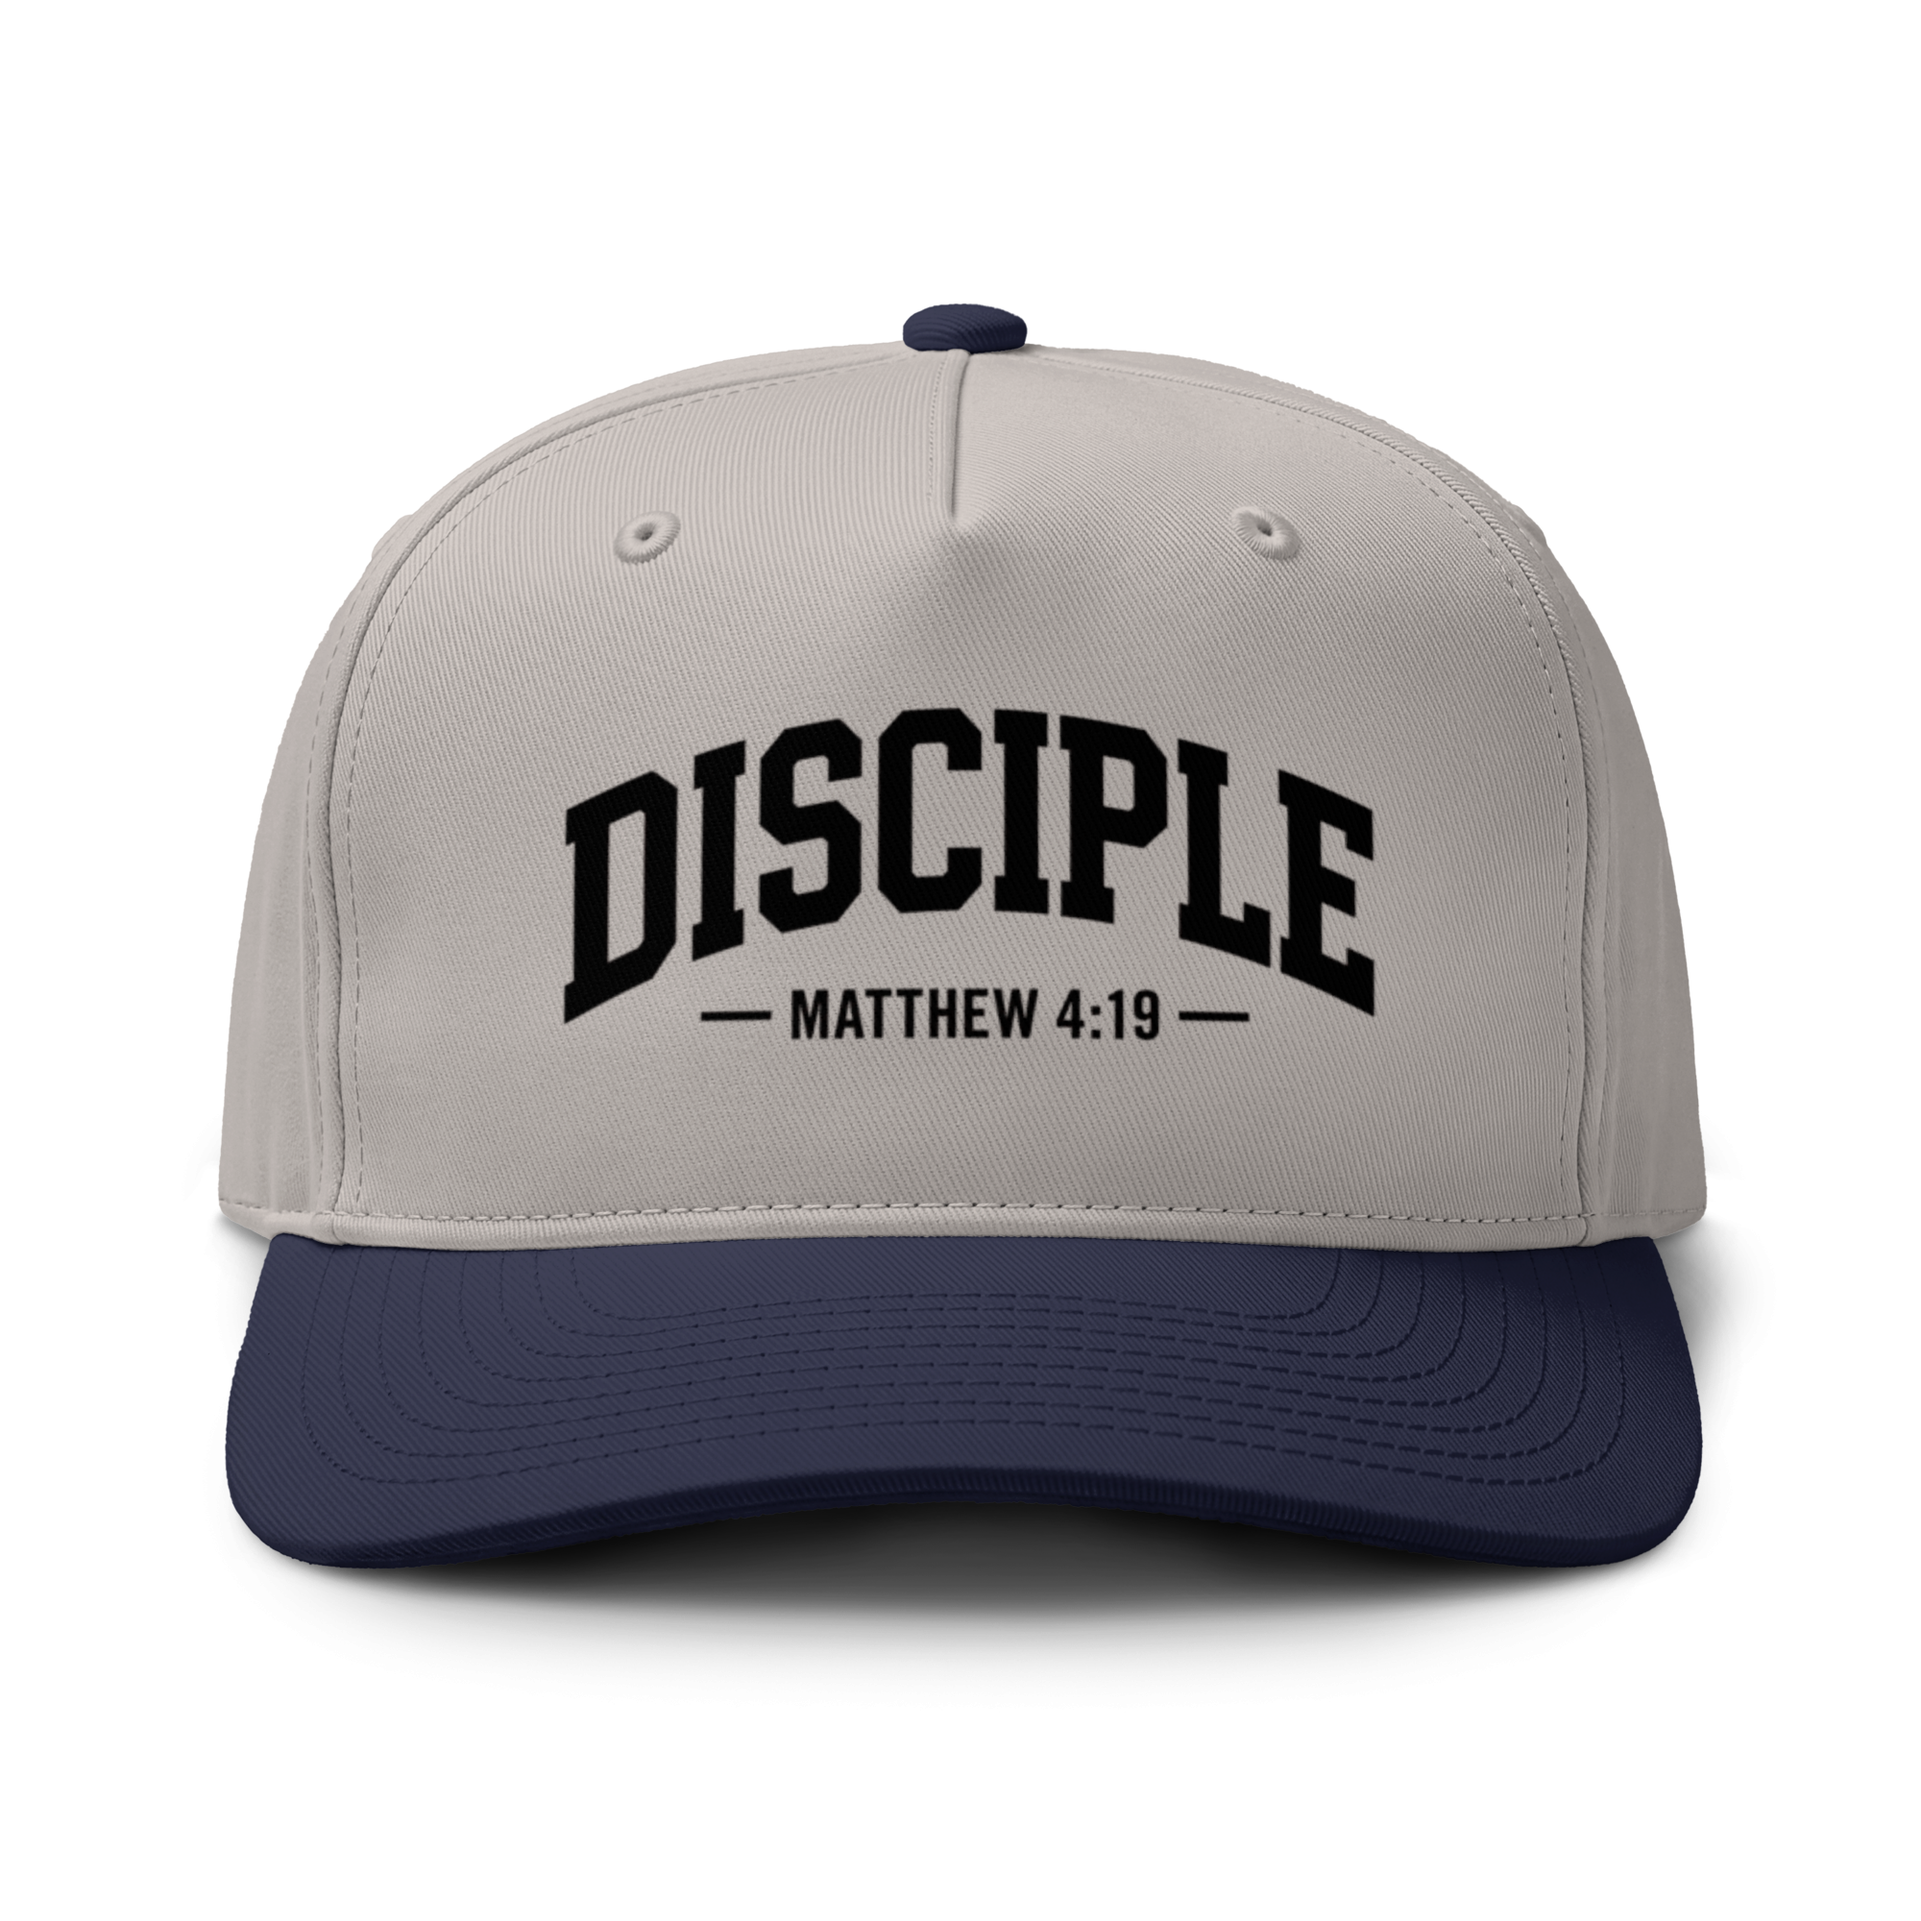
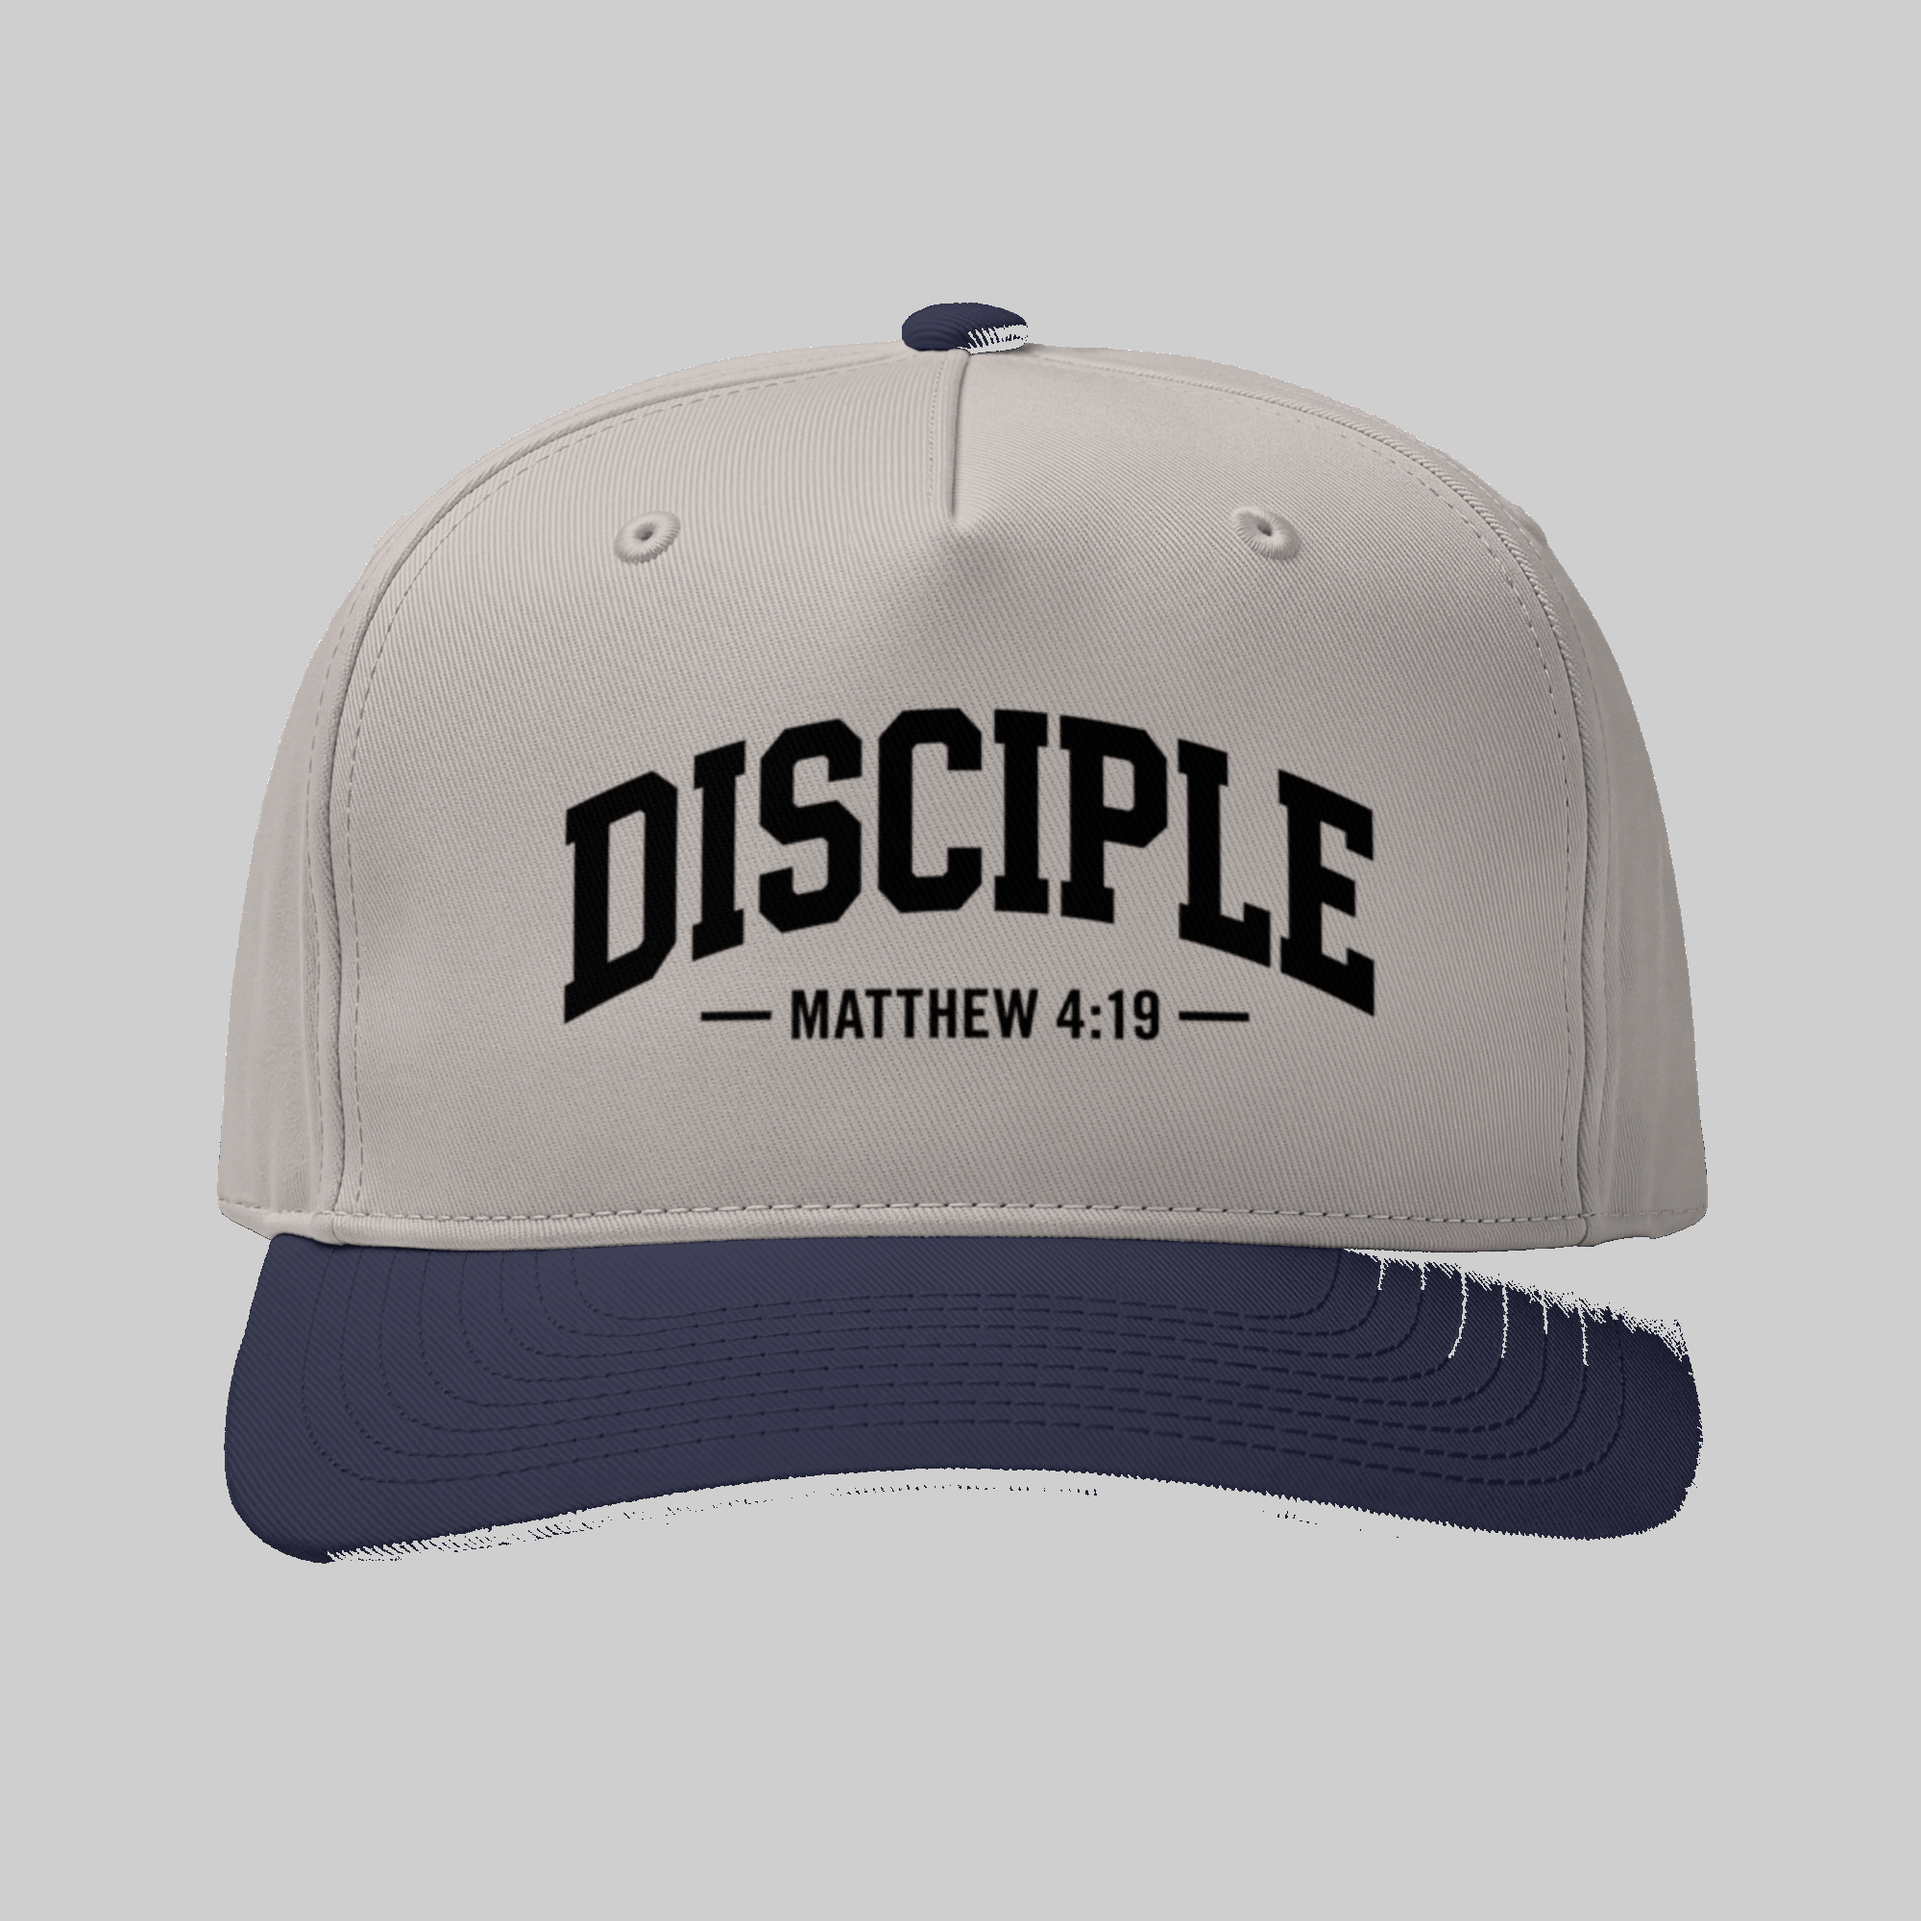
Final wrap

diff --git a/NV33-New-Master-Update/index.html b/NV33-New-Master-Update/index.html
@@ -8,7 +8,7 @@
   <link rel="stylesheet" href="css/style.css?v=nv33-pricing-shorts-youth-20260809-1">
 </head>
 <body>
-  <div class="topbar"><div><span>🚚</span> FREE U.S. SHIPPING on every order</div><div><span>✝</span> Made to Glorify Christ</div><div>♡ 40% of profits help the community</div></div>
+  <div class="topbar"><div><span>🚚</span> FREE U.S. SHIPPING on every order</div><div><span>✝</span> Made to Glorify Christ</div><div>♡ A portion of profits helps people in need</div></div>
   <header class="header">
     <a class="logo" href="index.html"><img src="assets/logos/lion33.png" alt="No Vanity 33 Lion logo"><span><strong>NO VANITY 33</strong><small>WEAR THE WORD. LIVE THE GOSPEL.</small></span></a>
     <nav><a href="#top">Home</a><a href="#founders">Founder's Collection</a><a href="#shop">Shop</a><a href="young-disciple.html">Young Disciple Wear</a><a href="#coming-soon">Founder’s Preview</a><a href="prayer-wall.html">Prayer Wall</a><a href="ambassador.html">Ambassadors</a><a href="#mission">Mission</a></nav>
@@ -31,15 +31,15 @@
 
     <section id="founders" class="section founders-section"><div class="center"><p class="eyebrow">Version 8 • New Releases</p><h2>Founder’s Collection</h2><p class="section-intro">Signature designs that introduce the message and visual identity of No Vanity 33.</p></div><div id="founderGrid" class="grid founder-grid"></div></section>
 
-    <section id="shop" class="section"><div class="center"><p class="eyebrow">Available Now</p><h2>Shop the Collection</h2><p class="section-intro">Tees, hoodies and shorts currently available for purchase. FREE U.S. SHIPPING on every order.</p></div><div class="filters"><button class="active" data-filter="All">All Available</button><button data-filter="Everyday Tees">Everyday Tees</button><button data-filter="Premium Tees">Premium Tees</button><button data-filter="Women's Tees">Women</button><button data-filter="Hoodies">Hoodies</button><button data-filter="Shorts">Shorts</button><button data-filter="Headwear">Headwear</button></div><div id="grid" class="grid"></div></section>
+    <section id="shop" class="section"><div class="center"><p class="eyebrow">Available Now</p><h2>Shop the Collection</h2><p class="section-intro">Tees, hoodies, shorts and headwear currently available for purchase. FREE U.S. SHIPPING on every order.</p></div><div class="filters"><button class="active" data-filter="All">All Available</button><button data-filter="Everyday Tees">Everyday Tees</button><button data-filter="Premium Tees">Premium Tees</button><button data-filter="Women's Tees">Women</button><button data-filter="Hoodies">Hoodies</button><button data-filter="Shorts">Shorts</button><button data-filter="Headwear">Headwear</button></div><div id="grid" class="grid"></div></section>
 
     <section id="coming-soon" class="coming-section"><div class="section"><div class="center"><p class="eyebrow">The Next Chapter</p><h2>Founder’s Preview</h2><p class="section-intro">An early look at the next No Vanity 33 collections. These products will launch only after the right specialty production partners meet our quality standard.</p></div><div id="comingGrid" class="grid coming-grid"></div><div class="notify-panel"><div><h3>Get First Access</h3><p>Join the mission and be the first to hear when new products are ready.</p></div><a class="btn primary" href="mailto:novanity2026@gmail.com?subject=No%20Vanity%2033%20Coming%20Soon%20Updates">Notify Me →</a></div></div></section>
 
-    <section id="mission" class="mission-section"><div class="mission-mark">✝</div><div><p class="eyebrow">Why We Create</p><h2>Made to Glorify Christ</h2><p>No Vanity 33 exists to point beyond ourselves and toward Jesus Christ. Every design is created to encourage Scripture, prayer, conversation and service to others.</p><a class="btn secondary" href="prayer-wall.html">Visit the Prayer Wall →</a></div></section>
+    <section id="mission" class="mission-section"><div class="mission-mark">✝</div><div><p class="eyebrow">Why We Create</p><h2>Made to Glorify Christ</h2><p>No Vanity 33 exists to point beyond ourselves and toward Jesus Christ. Every design is created to encourage Scripture, prayer, conversation and service to others. A portion of profits supports housing and emergency shelter assistance, reliable transportation and vehicle assistance, tuition and trade-school support, safe relocation for survivors escaping domestic violence, practical pregnancy and family support for mothers choosing life, and essential bill assistance for individuals actively participating in addiction treatment and recovery.</p><a class="btn secondary" href="prayer-wall.html">Visit the Prayer Wall →</a></div></section>
   </main>
 
   <footer class="footer"><div class="footergrid"><div class="footlogo"><img src="assets/logos/lion33.png" alt="No Vanity 33"><h3>NO VANITY 33</h3><p><b class="gold">Wear the Word.<br>Live the Gospel.</b></p></div><div><h4>Shop</h4><p><a href="#founders">Founder’s Collection</a><br><a href="#shop">Available Now</a><br><a href="#coming-soon">Founder’s Preview</a></p></div><div><h4>Community</h4><p><a href="daily-walk.html">Daily Walk</a><br><a href="prayer-wall.html">Prayer Wall</a><a href="ambassador.html">Ambassadors</a><br><a href="#mission">Our Mission</a></p></div><div><h4>Customer Care</h4><p>Shipping Policy<br>Return Policy<br>FAQ<br>Size Guide</p></div><div id="contact"><h4>Contact</h4><p><a href="mailto:novanity2026@gmail.com">novanity2026@gmail.com</a></p><p>Questions, prayer requests and order support are always welcome.</p></div></div><div class="copyright"><span>© 2026 No Vanity 33. All rights reserved.</span><span>Made to Glorify Christ ✝</span></div></footer>
   <div id="cartBox" class="cartbox"></div>
-  <script src="js/app.js?v=nv33-final-order-colors-20260809-3"></script>
+  <script src="js/app.js?v=nv33-final-wrap-20260809-2"></script>
 </body>
 </html>

diff --git a/NV33-New-Master-Update/js/app.js b/NV33-New-Master-Update/js/app.js
@@ -43,15 +43,6 @@ function renderCart(){
 }
 function colorChoices(p){
   if(!p.colors?.length)return '';
-  if(p.id==='lion-of-judah-hoodie'){
-    return `<div class="hoodie-color-control">
-      <label for="hoodie-color-${p.id}">Hoodie Color</label>
-      <select id="hoodie-color-${p.id}" class="hoodie-color-select" name="color-${p.id}" onchange="swapHoodieColor('${p.id}',this)">
-        ${p.colors.map(c=>`<option value="${c.name}" data-image="${c.image}">${c.name}</option>`).join('')}
-      </select>
-      <div class="hoodie-color-key">${p.colors.map((c,i)=>`<span class="hoodie-color-chip ${i===0?'selected':''}" data-color="${c.name}"><i style="--swatch:${swatchColor(c.name)}"></i>${c.name}</span>`).join('')}</div>
-    </div>`;
-  }
   return `<div class="color-picker" aria-label="Choose color for ${p.name}">${p.colors.map((c,i)=>`
     <label class="color-option ${i===0?'selected':''}" title="${c.name}">
       <input type="radio" name="color-${p.id}" value="${c.name}" ${i===0?'checked':''} onchange="swapProductImage('${p.id}','${c.image}',this)">
@@ -94,13 +85,6 @@ function viewChoices(p){
 }
 
 
-function swapHoodieColor(id,select){
-  const option=select.options[select.selectedIndex];
-  const image=option?.dataset.image;
-  const img=document.getElementById('img-'+id);
-  if(img&&image)img.src=image;
-  document.querySelectorAll(`#${id}-card .hoodie-color-chip`).forEach(chip=>chip.classList.toggle('selected',chip.dataset.color===select.value));
-}
 
 function openImage(src,alt){
   let modal=document.getElementById('imageModal');
@@ -139,12 +123,13 @@ function previewCard(p){
 
 function nv33StorefrontOrder(product){
   const id=nv33CanonicalProductKey(product);
-  const everyday=['99-for-1','faith-over-fear','faithful-servant','child-of-god','every-knee-will-bow','disciple','jesus-is-king','protected-by-the-blood','king-of-kings','love-thy-neighbor','satisfied'];
+  const everyday=['99-for-1','faith-over-fear','faithful-servant','child-of-god','every-knee-will-bow','disciple','repent','jesus-is-king','protected-by-the-blood','king-of-kings','love-thy-neighbor','satisfied'];
   const premium=['armor-of-god','burning-bush','crimson-worm','crown-33','lamb-of-god','lion-of-judah','parting-the-sea','philippians-4-13','prayer-cross','living-word','worthy-is-the-lamb','yahweh'];
   if(product?.id==='shroud-tee')return 0;
   if(product?.category==='Everyday Tees')return 100+(everyday.indexOf(id)>=0?everyday.indexOf(id):90);
   if(product?.category==='Hoodies')return 300;
   if(product?.category==='Shorts')return 400;
+  if(product?.category==='Headwear')return 450;
   if(product?.category==="Women's Tees")return 500;
   if(product?.category==='Premium Tees')return 700+(premium.indexOf(id)>=0?premium.indexOf(id):90);
   return 900;
@@ -278,7 +263,7 @@ function nv33NormalizeCatalog(input){
   });
 }
 
-fetch('data/products.json?v=nv33-final-order-colors-20260809-3')
+fetch('data/products.json?v=nv33-final-wrap-20260809-2')
   .then(r=>{if(!r.ok)throw new Error('Catalog failed to load');return r.json();})
   .then(d=>{products=nv33NormalizeCatalog(d);renderAll();})
   .catch(err=>{

diff --git a/NV33-New-Master-Update/css/style.css b/NV33-New-Master-Update/css/style.css
@@ -665,3 +665,14 @@ select{
 .young-disciple-panel h2{font-size:30px}.young-disciple-panel p{color:#cfcfcf;line-height:1.7}.sitewide-shipping-note{color:var(--gold);font-weight:950;letter-spacing:.7px}
 
 .view-picker{display:flex;gap:8px;justify-content:center;flex-wrap:wrap;margin:10px 0}.view-button{border:1px solid #9f843d;background:#111;color:#fff;padding:7px 12px;border-radius:999px;cursor:pointer}.view-button.selected{background:#c7a75b;color:#111;font-weight:700}
+
+/* ===== NV33 FINAL VISUAL STANDARD ===== */
+.product-card .imgbox,.founder-grid .imgbox,.preview-card .imgbox{
+  background:#cfcfcf!important;
+  display:flex!important;align-items:center!important;justify-content:center!important;
+  overflow:hidden!important;
+}
+.product-card .imgbox img,.founder-grid .imgbox img,.preview-card .imgbox img{
+  width:100%!important;height:100%!important;object-fit:contain!important;object-position:center!important;
+}
+.hoodie-color-control{display:none!important}
